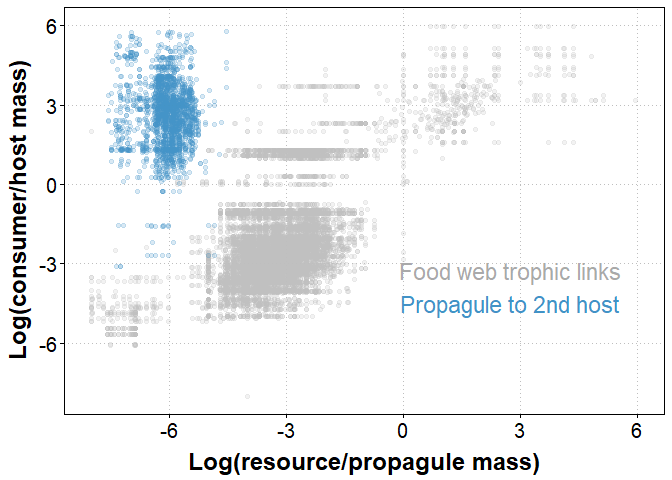
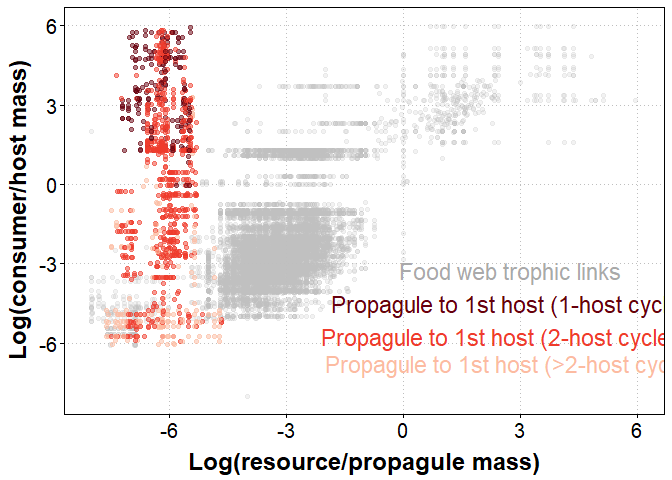
Re-knit github md file

Changed region(s): [[0.1562, 0.0625, 0.3438, 0.7188], [0.4688, 0.6875, 1.0, 0.7812], [0.4688, 0.5938, 1.0, 0.6562]]

diff --git a/propagule_transmission.md b/propagule_transmission.md
@@ -242,6 +242,35 @@ ggsave(filename = "figs/prop_to_1sthost_foodweb.png", width = 7, height = 5, uni
 ggsave(filename = "figs/prop_to_1sthost_foodweb.svg", width = 7, height = 5, units = "in")
 ```
 
+We can make finer distinctions between parasite life cycles. Instead of simple vs complex, let's try the life cycle groups: one-host, two-host, and three or more-hosts. The pattern is still distinguishable. Parasites with long life cycles tend to infect smaller first hosts. However, the differences between 2- and 3-host parasites is not obvious, so I would not prefer this plot over the simpler previous one.
+
+``` r
+plot.dat <- mutate(plot.dat, lcl.cat = if_else(lcl == 1, "1 host", if_else(lcl == 2, "2 hosts", ">2 hosts")))
+reds <- brewer.pal(9, 'Reds')[c(3, 9, 6)]
+
+outfig <- ggplot(data = filter(plot.dat, trans.step=="food web"),
+                 aes(x = log10(res.mass), y = log10(cons.mass))) +
+  geom_point(color = "gray", alpha = 0.2) +
+  labs(x = "\nLog(resource/propagule mass)", y = "Log(consumer/host mass)\n") +
+  geom_point(data = filter(plot.dat, trans.step == "propagule to 1st host"), 
+             aes(x = log10(res.mass), y = log10(cons.mass), color = lcl.cat),
+             alpha = 0.5) +
+  scale_color_manual(values = reds) + guides(color=FALSE) +
+  annotate("text", x = 2.75, y = -3.25, label = "Food web trophic links",
+           size = 6, color = "darkgray") +
+  annotate("text", x = 2.75, y = -4.5, label = "Propagule to 1st host (1-host cycle)", 
+           size = 6, color = reds[2]) +
+  annotate("text", x = 2.5, y = -5.75, label = "Propagule to 1st host (2-host cycle)", 
+           size = 6, color = reds[3]) +
+  annotate("text", x = 2.75, y = -6.75, label = "Propagule to 1st host (>2-host cycle)", 
+           size = 6, color = reds[1]) +
+  scale_x_continuous(limits = c(-8, 6), breaks = seq(from = -6, to = 6, by = 3)) +
+  scale_y_continuous(limits = c(-8, 6), breaks = seq(from = -6, to = 6, by = 3))
+outfig
+```
+
+![](propagule_transmission_files/figure-markdown_github-ascii_identifiers/unnamed-chunk-15-1.png)
+
 Now imagine that complex life cycle parasites skipped their first hosts, i.e. their propagules are consumed by the second hosts instead. How likely is this? When we make a similar plot to the previous one, we see there is much less overlap between parasite and food web data. This indicates that parasite propagules are usually too small to be considered a normal food item for the second hosts in a complex life cycle, and this indirectly supports the idea that transmission to the first host is higher than to the second host. Stated in another way, the first host reduces the mortality of the propagule.
 
 ``` r
@@ -262,7 +291,7 @@ outfig <- ggplot(data = filter(plot.dat, trans.step=="food web"),
 outfig
 ```
 
-![](propagule_transmission_files/figure-markdown_github-ascii_identifiers/unnamed-chunk-15-1.png)
+![](propagule_transmission_files/figure-markdown_github-ascii_identifiers/unnamed-chunk-16-1.png)
 
 ``` r
 # save svg and png of fig for a word doc; add (B) for paneling, change color of axis text
@@ -288,7 +317,7 @@ ggplot(data = filter(plot.dat, trans.step=="food web"),
   scale_y_continuous(limits = c(-8, 6), breaks = seq(from = -6, to = 6, by = 3))
 ```
 
-![](propagule_transmission_files/figure-markdown_github-ascii_identifiers/unnamed-chunk-16-1.png)
+![](propagule_transmission_files/figure-markdown_github-ascii_identifiers/unnamed-chunk-17-1.png)
 
 These plots are sufficient for now, but they might be improved by changing the food web data to a heat map or a contour plot.
 
@@ -336,12 +365,57 @@ outfig <- ggplot(filter(lclvsprop, Host.no == 1),
 outfig
 ```
 
-![](propagule_transmission_files/figure-markdown_github-ascii_identifiers/unnamed-chunk-18-1.png)
+![](propagule_transmission_files/figure-markdown_github-ascii_identifiers/unnamed-chunk-19-1.png)
 
 ``` r
 # save this for a word doc
 ggsave(filename = "figs/lcl_vs_1hostmass.png", width = 5, height = 4.5, units = "in")
 ```
+
+Maybe a boxplot is better than a scatterplot, given the limited range of values that life cycle length can take, so let's make one.
+
+``` r
+lclvsprop <- mutate(lclvsprop, lcl.cat = if_else(lcl > 3, ">3", as.character(lcl)))%>%
+  mutate(lcl.cat = factor(lcl.cat, levels = c("1", "2", "3", ">3")))
+
+outfig <- ggplot(filter(lclvsprop, Host.no == 1),
+                 aes(y = log10(host.mass), x = lcl.cat)) +
+  geom_boxplot(outlier.color = "white", width = 0.9) +
+  geom_jitter(width = 0.2, color = "red", alpha = 0.2) +
+  labs(x = "Life cycle length", y = "1st host mass")
+outfig
+```
+
+![](propagule_transmission_files/figure-markdown_github-ascii_identifiers/unnamed-chunk-20-1.png)
+
+This is clearer in my opinion. We can also try to integrate food web info onto this boxplot. Let's shade the area where propagule sizes overlap with the Brose food web data. We'll take the inner 95% quantiles to exclude odd parasite propagules and odd trophic links. Then we'll shade the plot to indicate which hosts seem likely to consume parasite propagules.
+
+``` r
+prop_size95 <- quantile(dataL$biovolume, probs = c(0.025, 0.975)) # 95% quantile for propagule sizes
+# for trophic links with resources in the size range of parasite propagules, take the 95% quantile for consumers
+cons_size95 <- filter(brose, res.mass > prop_size95[1], res.mass < prop_size95[2])%>% 
+  select(cons.mass)
+cons_size95 <- quantile(cons_size95$cons.mass, probs = c(0.025, 0.95))
+
+# add a rectangle to the boxplot depicting where propagule consumption is realistic
+outfig <- outfig +
+  annotate(geom = "rect",
+           xmin = 0.4, xmax = 4.6,
+           ymin = log10(cons_size95[1]),
+           ymax = log10(cons_size95[2]),
+           fill = 'gray', alpha = 0.2) + 
+  scale_x_discrete(expand = c(0,0))
+outfig
+```
+
+![](propagule_transmission_files/figure-markdown_github-ascii_identifiers/unnamed-chunk-21-1.png)
+
+``` r
+# save this
+ggsave(filename = "figs/lcl_vs_1hostmass_boxplot.png", width = 5, height = 4.5, units = "in")
+```
+
+This plot suggests that only complex life cycle parasites have 1st hosts that are likely to consume parasite propagules.
 
 Presumably, parasites adapt to their life cycles and hosts. Thus, although parasite propagules are consistently small, maybe their size correlates with the type of first host. For example, perhaps larger propagules are more likely to be eaten by bigger consumers. Consistent with this, there is a significant positive correlation between propagule mass and 1st host mass.
 
@@ -383,7 +457,7 @@ ggplot(filter(lclvsprop, Host.no == 1),
   labs(x = "Propagule mass", y = "1st host mass")
 ```
 
-![](propagule_transmission_files/figure-markdown_github-ascii_identifiers/unnamed-chunk-20-1.png)
+![](propagule_transmission_files/figure-markdown_github-ascii_identifiers/unnamed-chunk-23-1.png)
 
 There are 973 parasite species in the life cycle database. It is worth checking how many have 1st host size data and propagule size data. About 44% lack host size data.
 
@@ -409,33 +483,3 @@ table(lclvsprop2$missing_propsize)
     ## 
     ##        no propagule size propagule size available 
     ##                      263                      710
-
-Here's maybe another way to present the main results. First, show that mass of the first host differs depending on whether parasites have a simple or complex life cycle. Also, show that the second hosts in a complex cycle are larger than the first host.
-
-``` r
-lclvsprop3 <- filter(lclvsprop, Host.no < 3)%>%
-  mutate(cycle = if_else(lcl < 2, "simple", "complex"))%>%
-  mutate(cycle2 = if_else(cycle == 'simple', "1st host (simple)",
-                          if_else(Host.no == 1, "1st host (complex)", "2nd host (complex)")))
-
-ggplot(lclvsprop3, aes(x = cycle2, y = log10(host.mass))) + 
-  geom_boxplot(outlier.color = "white", width = 0.9) +
-  geom_jitter(width = 0.2, color = "red", alpha = 0.2) +
-  theme(axis.title.x = element_blank()) +
-  labs(y = "Log Host Mass (g)")
-```
-
-![](propagule_transmission_files/figure-markdown_github-ascii_identifiers/unnamed-chunk-23-1.png)
-
-Also, need to show that propagule size does not differ between simple and complex life cycle parasites. These two graphs are arguably simpler, because they do not invoke food web data. However, that is also a weakness, as they still require background knowledge in ecology to interpret.
-
-``` r
-ggplot(filter(lclvsprop3, Host.no == 1),
-       aes(x = cycle, y = log10(biovolume))) +
-  geom_boxplot(outlier.color = "white", width = 0.9) +
-  geom_jitter(width = 0.2, color = "red", alpha = 0.2) +
-  theme(axis.title.x = element_blank()) +
-  labs(y = "Log Propagule Mass (g)")
-```
-
-![](propagule_transmission_files/figure-markdown_github-ascii_identifiers/unnamed-chunk-24-1.png)
